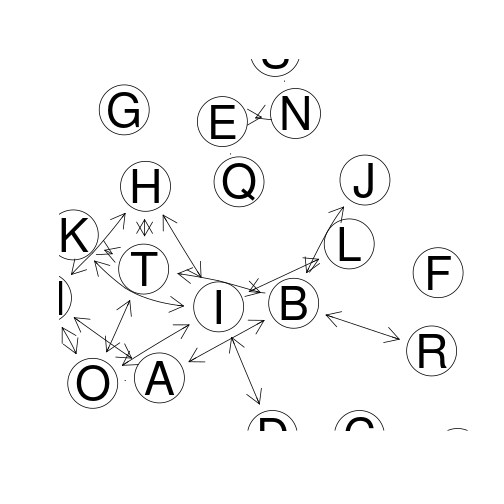
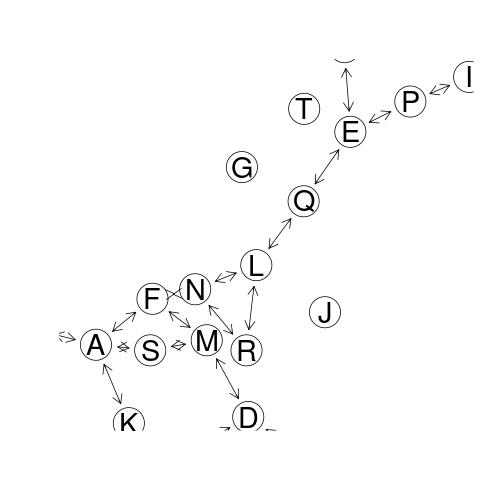
inst/

diff --git a/inst/Bioconductor/README.md b/inst/Bioconductor/README.md
@@ -33,16 +33,16 @@ edata = exprs(dat)
 batch = pheno$batch
 mod = model.matrix(~as.factor(cancer), data=pheno)
 
-# parametric adjustment
-combat_edata1 = ComBat(dat=edata, batch=batch, mod=NULL, par.prior=TRUE, prior.plots=FALSE)
+# 1. parametric adjustment
+combat_edata1 = ComBat(dat=edata, batch=batch, mod=NULL, par.prior=TRUE, prior.plots=TRUE)
 #> Error in ComBat(dat = edata, batch = batch, mod = NULL, par.prior = TRUE, : could not find function "ComBat"
 
-# non-parametric adjustment, mean-only version
+# 2. non-parametric adjustment, mean-only version
 combat_edata2 = ComBat(dat=edata, batch=batch, mod=NULL, par.prior=FALSE, mean.only=TRUE)
 #> Error in ComBat(dat = edata, batch = batch, mod = NULL, par.prior = FALSE, : could not find function "ComBat"
 
-# reference-batch version, with covariates
-combat_edata3 = ComBat(dat=edata, batch=batch, mod=mod, par.prior=TRUE, ref.batch=3)
+# 3. reference-batch version, with covariates
+combat_edata3 = ComBat(dat=edata, batch=batch, mod=mod, par.prior=TRUE, ref.batch=3, prior.plots=TRUE)
 #> Error in ComBat(dat = edata, batch = batch, mod = mod, par.prior = TRUE, : could not find function "ComBat"
 ```
 
@@ -109,13 +109,13 @@ estimated.pcor <- cor2pcor( cor(m.sim) )
 
 # A comparison of estimated and true values
 sum((true.pcor-estimated.pcor)^2)
-#> [1] 667.8421
+#> [1] 485.3661
 
 # A slightly better estimate ...
 estimated.pcor.2 <- ggm.estimate.pcor(m.sim)
-#> Estimating optimal shrinkage intensity lambda (correlation matrix): 0.0502
+#> Estimating optimal shrinkage intensity lambda (correlation matrix): 0.4146
 sum((true.pcor-estimated.pcor.2)^2)
-#> [1] 11.63984
+#> [1] 9.409779
 
 ## ecoli data 
 data(ecoli)
@@ -410,38 +410,38 @@ num.nodes(gr)
 #> [1] 20
 edge.info(gr)
 #> $weight
-#>      A~O      A~M      A~B      B~T      B~J      B~R      D~I      E~Q 
-#>  0.20653 -0.39841 -0.42984 -0.13861  0.36080  0.53772 -0.58767  0.39114 
-#>      E~N      H~I      H~M      H~T      I~L      I~O      I~K      K~T 
-#> -0.67354 -0.22266  0.24540 -0.32198  0.05381  0.29239  0.29393 -0.56676 
-#>      M~O      N~S      O~T 
-#>  0.39088  0.68130 -0.07119 
+#>      A~S      A~K      A~F      A~H      B~E      C~D      C~K      D~O 
+#> -0.15336  0.26614 -0.39258  0.61266  0.64742  0.07149 -0.70853  0.44840 
+#>      D~M      E~P      E~Q      F~N      F~M      I~P      L~Q      L~R 
+#> -0.55883  0.35639 -0.46159  0.28920 -0.31394  0.75689 -0.17690 -0.36683 
+#>      L~N      M~S      N~R 
+#>  0.44811  0.42591 -0.45427 
 #> 
 #> $dir
-#>    A~O    A~M    A~B    B~T    B~J    B~R    D~I    E~Q    E~N    H~I    H~M 
+#>    A~S    A~K    A~F    A~H    B~E    C~D    C~K    D~O    D~M    E~P    E~Q 
 #> "none" "none" "none" "none" "none" "none" "none" "none" "none" "none" "none" 
-#>    H~T    I~L    I~O    I~K    K~T    M~O    N~S    O~T 
+#>    F~N    F~M    I~P    L~Q    L~R    L~N    M~S    N~R 
 #> "none" "none" "none" "none" "none" "none" "none" "none"
 gr2 <- network.make.graph( test.results, nlab, drop.singles=TRUE)
 gr2
 #> A graphNEL graph with directed edges
-#> Number of Nodes = 16 
+#> Number of Nodes = 17 
 #> Number of Edges = 38
 num.nodes(gr2)
-#> [1] 16
+#> [1] 17
 edge.info(gr2)
 #> $weight
-#>      A~O      A~M      A~B      B~T      B~J      B~R      D~I      E~Q 
-#>  0.20653 -0.39841 -0.42984 -0.13861  0.36080  0.53772 -0.58767  0.39114 
-#>      E~N      H~I      H~M      H~T      I~L      I~O      I~K      K~T 
-#> -0.67354 -0.22266  0.24540 -0.32198  0.05381  0.29239  0.29393 -0.56676 
-#>      M~O      N~S      O~T 
-#>  0.39088  0.68130 -0.07119 
+#>      A~S      A~K      A~F      A~H      B~E      C~D      C~K      D~O 
+#> -0.15336  0.26614 -0.39258  0.61266  0.64742  0.07149 -0.70853  0.44840 
+#>      D~M      E~P      E~Q      F~N      F~M      I~P      L~Q      L~R 
+#> -0.55883  0.35639 -0.46159  0.28920 -0.31394  0.75689 -0.17690 -0.36683 
+#>      L~N      M~S      N~R 
+#>  0.44811  0.42591 -0.45427 
 #> 
 #> $dir
-#>    A~O    A~M    A~B    B~T    B~J    B~R    D~I    E~Q    E~N    H~I    H~M 
+#>    A~S    A~K    A~F    A~H    B~E    C~D    C~K    D~O    D~M    E~P    E~Q 
 #> "none" "none" "none" "none" "none" "none" "none" "none" "none" "none" "none" 
-#>    H~T    I~L    I~O    I~K    K~T    M~O    N~S    O~T 
+#>    F~N    F~M    I~P    L~Q    L~R    L~N    M~S    N~R 
 #> "none" "none" "none" "none" "none" "none" "none" "none"
 
 # plot network
@@ -457,44 +457,12 @@ library("Rgraphviz")
 #> 
 #>     from, to
 plot(gr, "fdp")
-#> Warning in arrows(tail_from[1], tail_from[2], tail_to[1], tail_to[2], col =
-#> edgeColor, : zero-length arrow is of indeterminate angle and so skipped
-#> Warning in arrows(head_from[1], head_from[2], head_to[1], head_to[2], col =
-#> edgeColor, : zero-length arrow is of indeterminate angle and so skipped
-#> Warning in arrows(tail_from[1], tail_from[2], tail_to[1], tail_to[2], col =
-#> edgeColor, : zero-length arrow is of indeterminate angle and so skipped
-#> Warning in arrows(head_from[1], head_from[2], head_to[1], head_to[2], col =
-#> edgeColor, : zero-length arrow is of indeterminate angle and so skipped
-#> Warning in arrows(tail_from[1], tail_from[2], tail_to[1], tail_to[2], col =
-#> edgeColor, : zero-length arrow is of indeterminate angle and so skipped
-#> Warning in arrows(head_from[1], head_from[2], head_to[1], head_to[2], col =
-#> edgeColor, : zero-length arrow is of indeterminate angle and so skipped
 ```
 
 ![plot of chunk GeneNet](figures/GeneNet-2.png)
 
 ```r
 plot(gr2, "fdp")
-#> Warning in arrows(tail_from[1], tail_from[2], tail_to[1], tail_to[2], col =
-#> edgeColor, : zero-length arrow is of indeterminate angle and so skipped
-
-#> Warning in arrows(tail_from[1], tail_from[2], tail_to[1], tail_to[2], col =
-#> edgeColor, : zero-length arrow is of indeterminate angle and so skipped
-#> Warning in arrows(tail_from[1], tail_from[2], tail_to[1], tail_to[2], col =
-#> edgeColor, : zero-length arrow is of indeterminate angle and so skipped
-#> Warning in arrows(head_from[1], head_from[2], head_to[1], head_to[2], col =
-#> edgeColor, : zero-length arrow is of indeterminate angle and so skipped
-#> Warning in arrows(tail_from[1], tail_from[2], tail_to[1], tail_to[2], col =
-#> edgeColor, : zero-length arrow is of indeterminate angle and so skipped
-#> Warning in arrows(head_from[1], head_from[2], head_to[1], head_to[2], col =
-#> edgeColor, : zero-length arrow is of indeterminate angle and so skipped
-#> Warning in arrows(tail_from[1], tail_from[2], tail_to[1], tail_to[2], col =
-#> edgeColor, : zero-length arrow is of indeterminate angle and so skipped
-#> Warning in arrows(head_from[1], head_from[2], head_to[1], head_to[2], col =
-#> edgeColor, : zero-length arrow is of indeterminate angle and so skipped
-
-#> Warning in arrows(head_from[1], head_from[2], head_to[1], head_to[2], col =
-#> edgeColor, : zero-length arrow is of indeterminate angle and so skipped
 ```
 
 ![plot of chunk GeneNet](figures/GeneNet-3.png)
